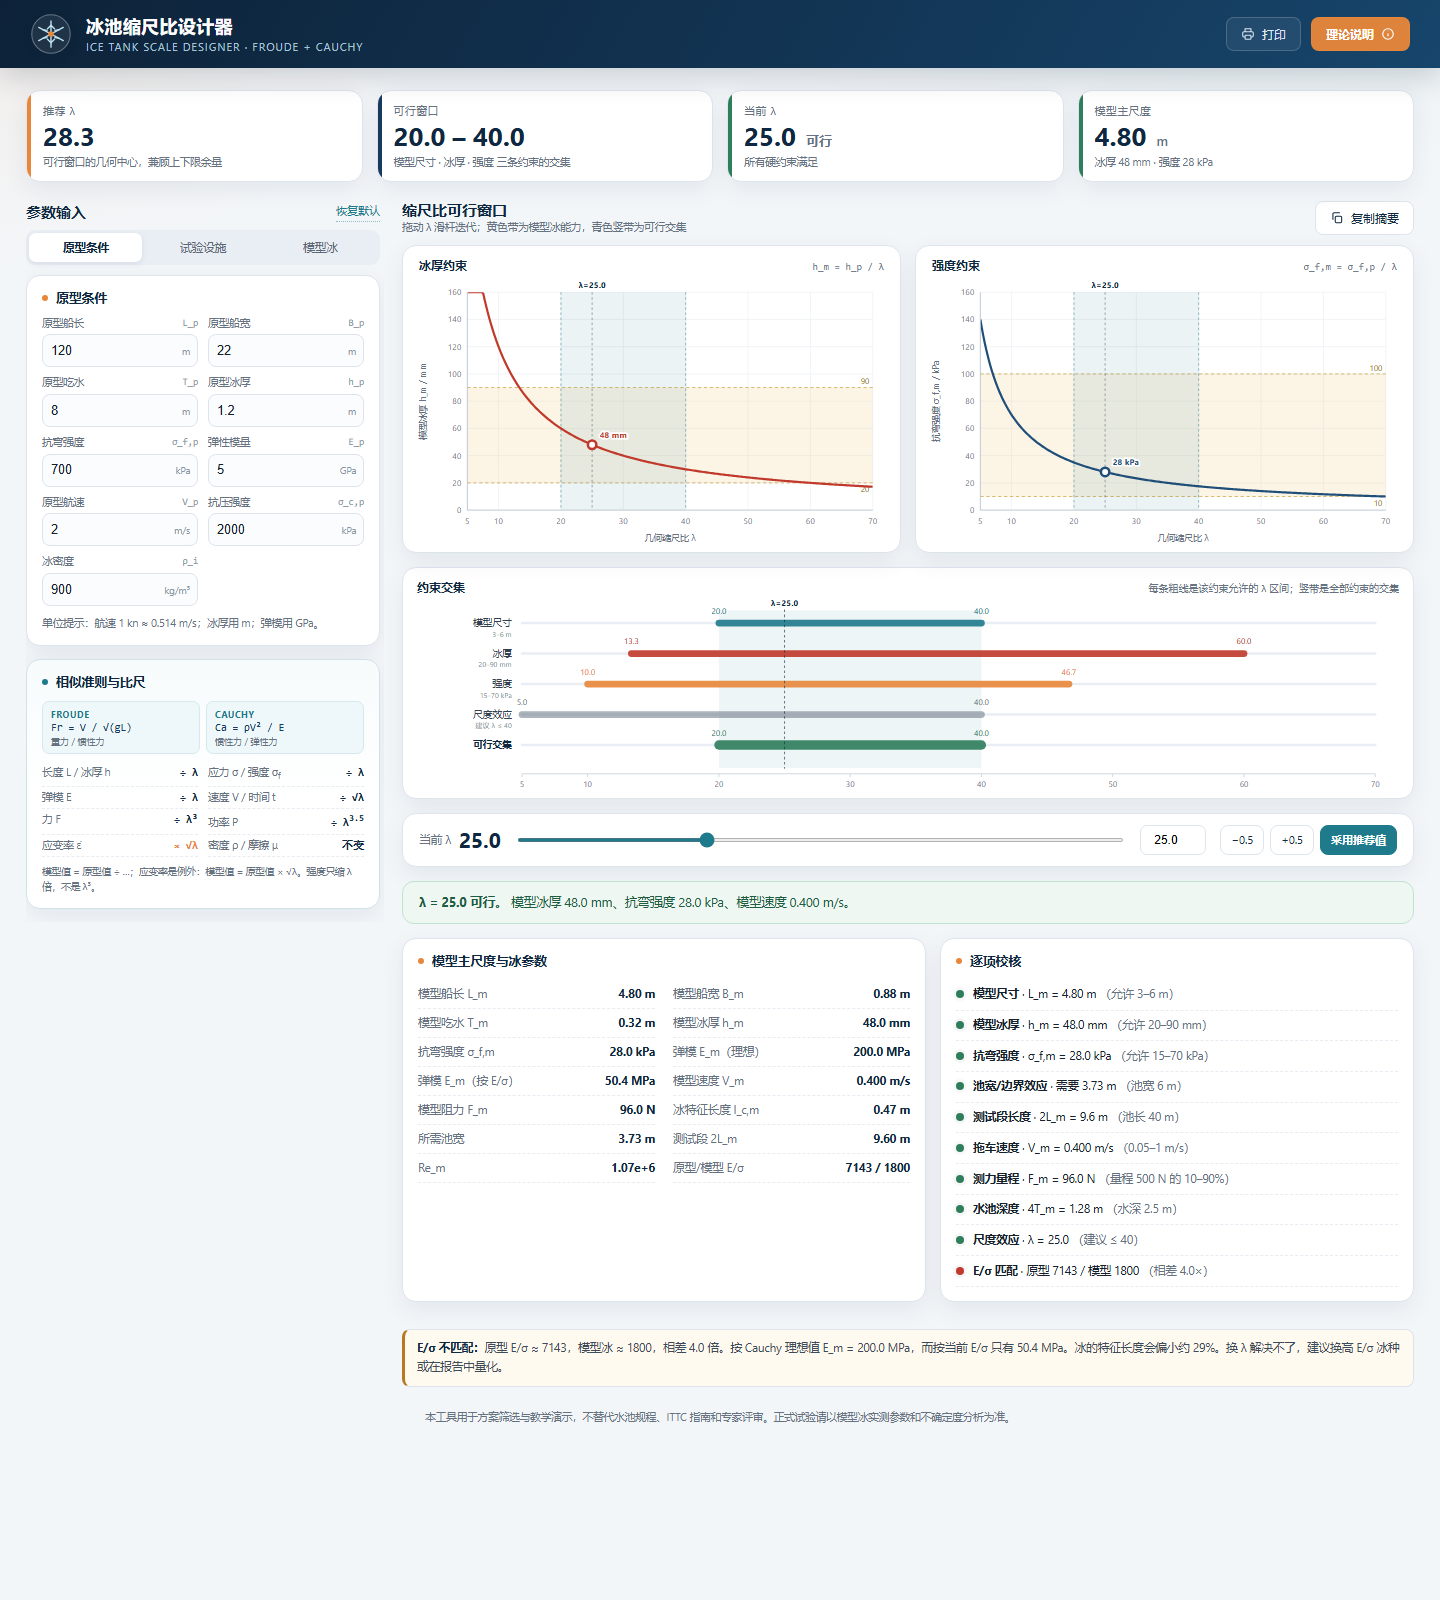
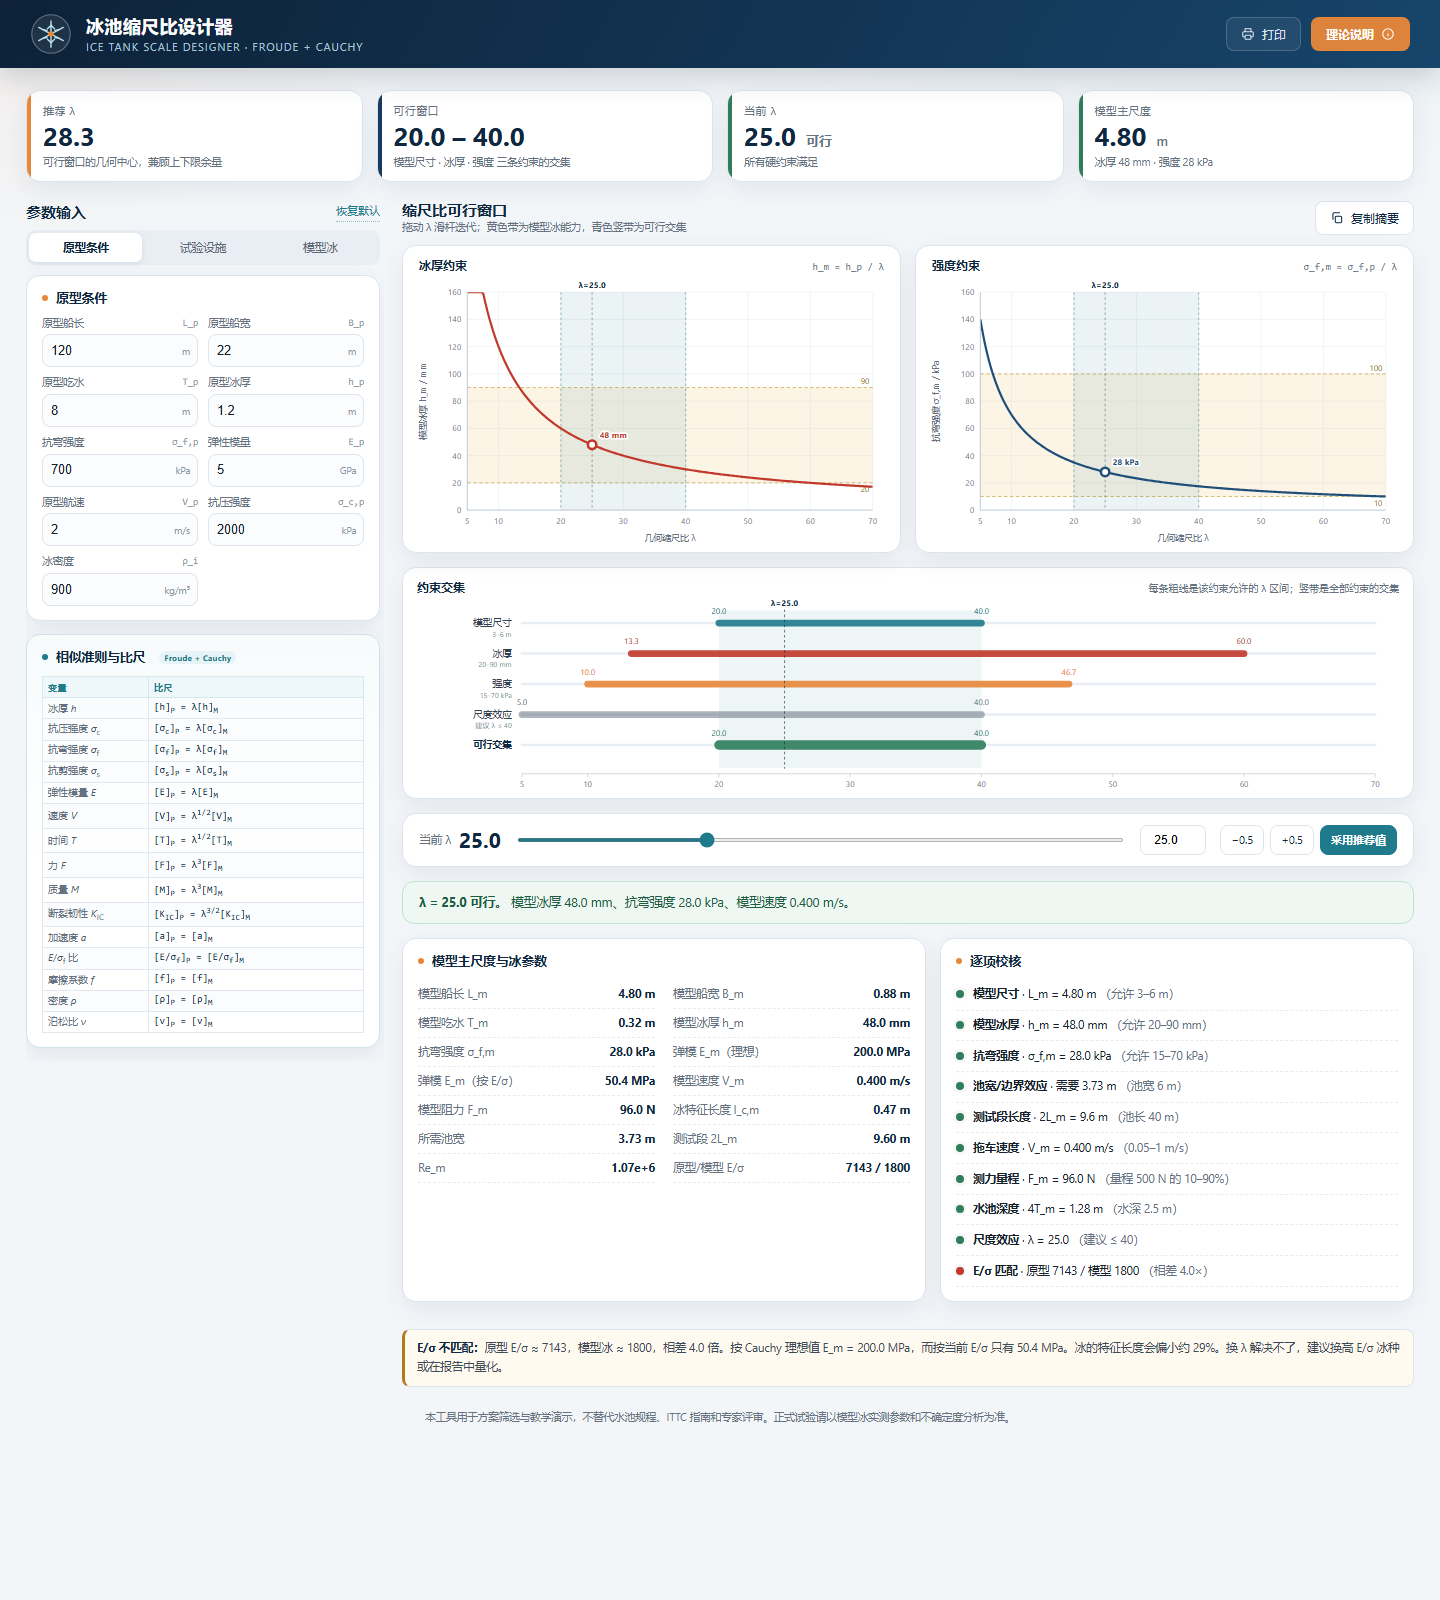
Use bracket-notation scaling table in the similarity card

Changed region(s): [[0.0312, 0.375, 0.25, 0.6562]]

diff --git a/index.html b/index.html
@@ -112,17 +112,26 @@
   .card h3::before{content:"";width:6px;height:6px;border-radius:50%;background:var(--orange);flex:0 0 auto}
   .ref-card{background:linear-gradient(180deg,#f7fbfc 0%,#fff 55%);border-color:#cfe2e8}
   .ref-card h3::before{background:var(--teal)}
-  .criteria{display:grid;grid-template-columns:1fr 1fr;gap:6px;margin-bottom:8px}
-  .criteria > div{background:#eef7f9;border:1px solid #d7e9ee;border-radius:7px;padding:6px 8px;min-width:0}
-  .criteria em{display:block;font-style:normal;font-size:9px;color:var(--teal);font-weight:700;letter-spacing:.06em;text-transform:uppercase}
-  .criteria code{display:block;font-family:Consolas,"Cascadia Mono",monospace;font-size:10.5px;color:#173a5e;white-space:nowrap;margin-top:1px}
-  .criteria small{display:block;font-size:9px;color:var(--muted);margin-top:1px}
-  .scale-grid{display:grid;grid-template-columns:1fr 1fr;gap:0 10px}
-  .scale-item{display:flex;justify-content:space-between;align-items:baseline;gap:6px;padding:4px 0;border-bottom:1px dashed #e7ecf2;font-size:10.5px;min-width:0}
-  .scale-item span{color:var(--muted);line-height:1.3}
-  .scale-item b{font-family:Consolas,"Cascadia Mono",monospace;font-size:11px;color:var(--navy);white-space:nowrap;font-weight:650}
-  .scale-item b.mult{color:var(--orange)}
-  .ref-note{font-size:9.5px;color:var(--muted);line-height:1.55;margin:7px 0 0}
+  .ref-tag{
+    display:inline-block;margin-left:6px;padding:1px 5px;border-radius:999px;
+    background:#e6f4f7;color:var(--teal);font-size:8px;font-weight:700;
+    letter-spacing:.03em;vertical-align:1px;white-space:nowrap;
+  }
+  .scale-table{width:100%;border-collapse:collapse;table-layout:fixed;font-size:10px;line-height:1.35}
+  .scale-table th{
+    padding:4px 5px;border:1px solid #d7e9ee;background:#eef7f9;color:var(--teal);
+    font-size:9px;font-weight:700;letter-spacing:.05em;text-align:left;
+  }
+  .scale-table th:first-child,.scale-table td:first-child{width:33%}
+  .scale-table th:last-child,.scale-table td:last-child{width:67%}
+  .scale-table td{padding:2.5px 5px;border:1px solid #e1e8ef;vertical-align:middle}
+  .scale-table td:first-child{color:var(--muted);white-space:nowrap}
+  .scale-table td:last-child{
+    font-family:Consolas,"Cascadia Mono",monospace;color:var(--navy);
+    font-size:10px;white-space:nowrap;
+  }
+  .scale-table tr:nth-child(even) td{background:#fbfcfd}
+  .scale-table i{font-style:italic;color:#4a5866}
   .field-grid{display:grid;grid-template-columns:1fr 1fr;gap:9px 10px}
   .field{display:flex;flex-direction:column;gap:4px;min-width:0}
   .field-label{font-size:10.5px;color:var(--muted);display:flex;justify-content:space-between;gap:6px;line-height:1.3}
@@ -376,30 +385,27 @@
       <div id="inputGroups"></div>
 
       <section class="card ref-card" aria-label="相似准则与比尺">
-        <h3>相似准则与比尺</h3>
-        <div class="criteria">
-          <div>
-            <em>Froude</em>
-            <code>Fr = V / √(gL)</code>
-            <small>重力 / 惯性力</small>
-          </div>
-          <div>
-            <em>Cauchy</em>
-            <code>Ca = ρV² / E</code>
-            <small>惯性力 / 弹性力</small>
-          </div>
-        </div>
-        <div class="scale-grid">
-          <div class="scale-item"><span>长度 L / 冰厚 h</span><b>÷ λ</b></div>
-          <div class="scale-item"><span>应力 σ / 强度 σ<sub>f</sub></span><b>÷ λ</b></div>
-          <div class="scale-item"><span>弹模 E</span><b>÷ λ</b></div>
-          <div class="scale-item"><span>速度 V / 时间 t</span><b>÷ √λ</b></div>
-          <div class="scale-item"><span>力 F</span><b>÷ λ³</b></div>
-          <div class="scale-item"><span>功率 P</span><b>÷ λ<sup>3.5</sup></b></div>
-          <div class="scale-item"><span>应变率 ε̇</span><b class="mult">× √λ</b></div>
-          <div class="scale-item"><span>密度 ρ / 摩擦 μ</span><b>不变</b></div>
-        </div>
-        <p class="ref-note">模型值 = 原型值 ÷ …；应变率是例外：模型值 = 原型值 × √λ。强度只缩 λ 倍，不是 λ³。</p>
+        <h3>相似准则与比尺 <span class="ref-tag">Froude + Cauchy</span></h3>
+        <table class="scale-table">
+          <thead><tr><th>变量</th><th>比尺</th></tr></thead>
+          <tbody>
+            <tr><td>冰厚 <i>h</i></td><td>[h]<sub>P</sub> = λ[h]<sub>M</sub></td></tr>
+            <tr><td>抗压强度 <i>σ</i><sub>c</sub></td><td>[σ<sub>c</sub>]<sub>P</sub> = λ[σ<sub>c</sub>]<sub>M</sub></td></tr>
+            <tr><td>抗弯强度 <i>σ</i><sub>f</sub></td><td>[σ<sub>f</sub>]<sub>P</sub> = λ[σ<sub>f</sub>]<sub>M</sub></td></tr>
+            <tr><td>抗剪强度 <i>σ</i><sub>s</sub></td><td>[σ<sub>s</sub>]<sub>P</sub> = λ[σ<sub>s</sub>]<sub>M</sub></td></tr>
+            <tr><td>弹性模量 <i>E</i></td><td>[E]<sub>P</sub> = λ[E]<sub>M</sub></td></tr>
+            <tr><td>速度 <i>V</i></td><td>[V]<sub>P</sub> = λ<sup>1/2</sup>[V]<sub>M</sub></td></tr>
+            <tr><td>时间 <i>T</i></td><td>[T]<sub>P</sub> = λ<sup>1/2</sup>[T]<sub>M</sub></td></tr>
+            <tr><td>力 <i>F</i></td><td>[F]<sub>P</sub> = λ<sup>3</sup>[F]<sub>M</sub></td></tr>
+            <tr><td>质量 <i>M</i></td><td>[M]<sub>P</sub> = λ<sup>3</sup>[M]<sub>M</sub></td></tr>
+            <tr><td>断裂韧性 <i>K</i><sub>IC</sub></td><td>[K<sub>IC</sub>]<sub>P</sub> = λ<sup>3/2</sup>[K<sub>IC</sub>]<sub>M</sub></td></tr>
+            <tr><td>加速度 <i>a</i></td><td>[a]<sub>P</sub> = [a]<sub>M</sub></td></tr>
+            <tr><td><i>E</i>/<i>σ</i><sub>f</sub> 比</td><td>[E/σ<sub>f</sub>]<sub>P</sub> = [E/σ<sub>f</sub>]<sub>M</sub></td></tr>
+            <tr><td>摩擦系数 <i>f</i></td><td>[f]<sub>P</sub> = [f]<sub>M</sub></td></tr>
+            <tr><td>密度 <i>ρ</i></td><td>[ρ]<sub>P</sub> = [ρ]<sub>M</sub></td></tr>
+            <tr><td>泊松比 <i>ν</i></td><td>[ν]<sub>P</sub> = [ν]<sub>M</sub></td></tr>
+          </tbody>
+        </table>
       </section>
     </aside>
 
@@ -684,7 +690,6 @@ V<sub>m</sub> = V<sub>p</sub> / √λ &nbsp;&nbsp;|&nbsp;&nbsp; σ<sub>m</sub> =
   const GROUPS = [
     {
       id: 'proto', title: '原型条件',
-      hint: '单位提示：航速 1 kn ≈ 0.514 m/s；冰厚用 m；弹模用 GPa。',
       fields: [
         { key: 'Lp',   label: '原型船长',   sym: 'L_p',      unit: 'm',      min: 10,  max: 600,  step: 0.1 },
         { key: 'Bp',   label: '原型船宽',   sym: 'B_p',      unit: 'm',      min: 3,   max: 80,   step: 0.1 },
